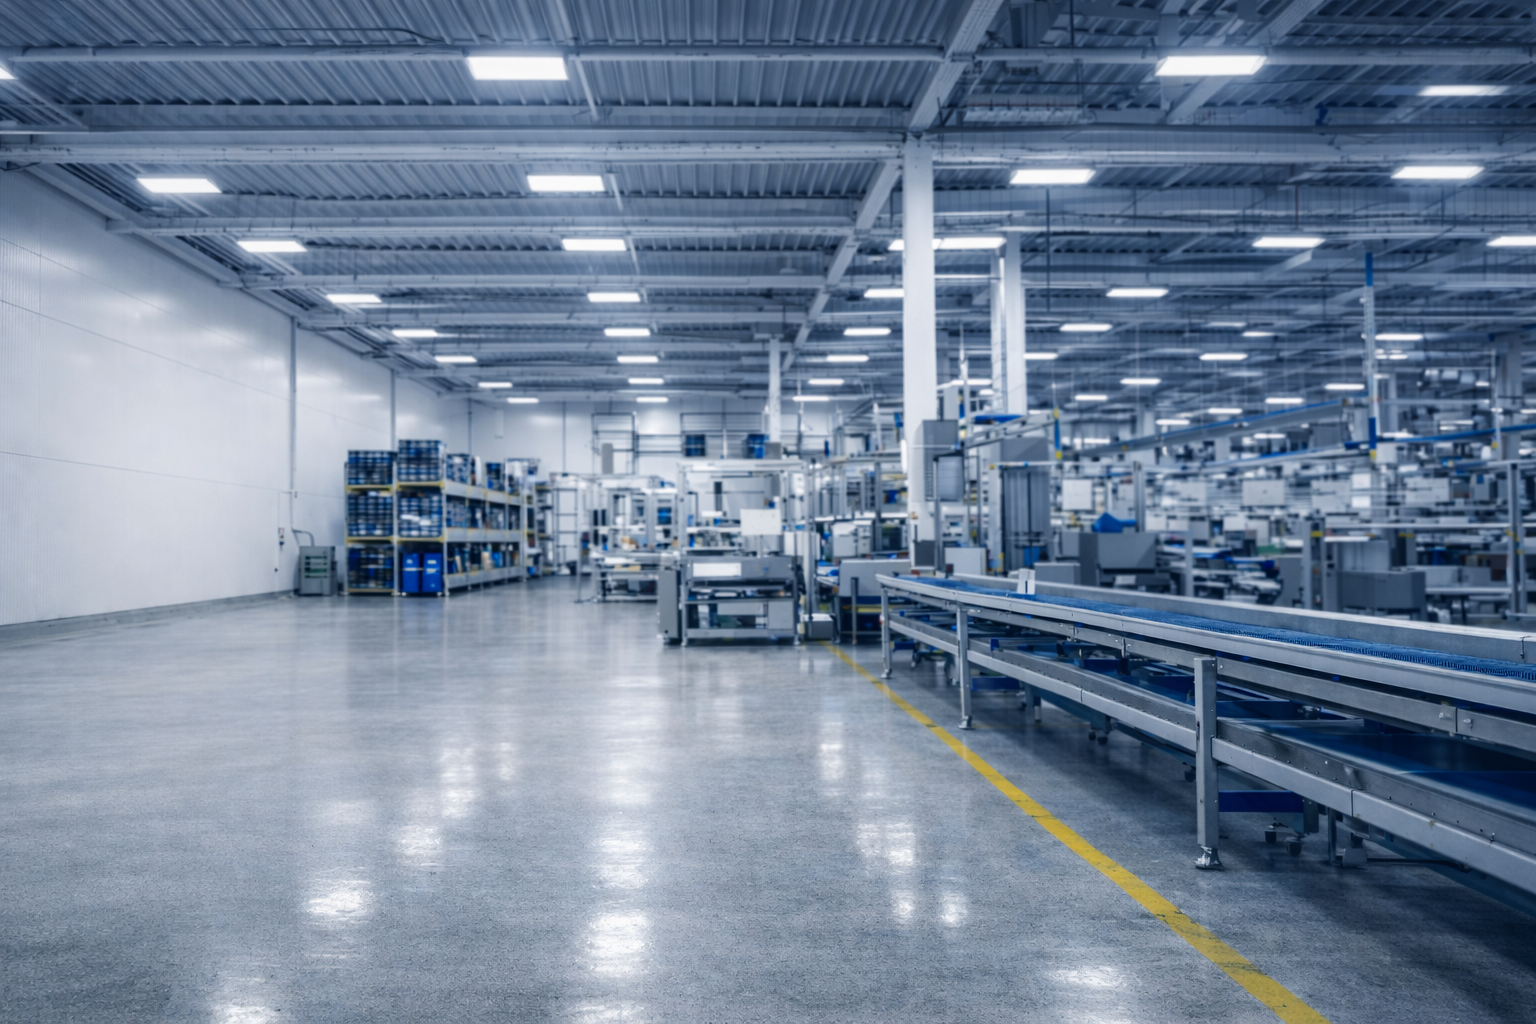
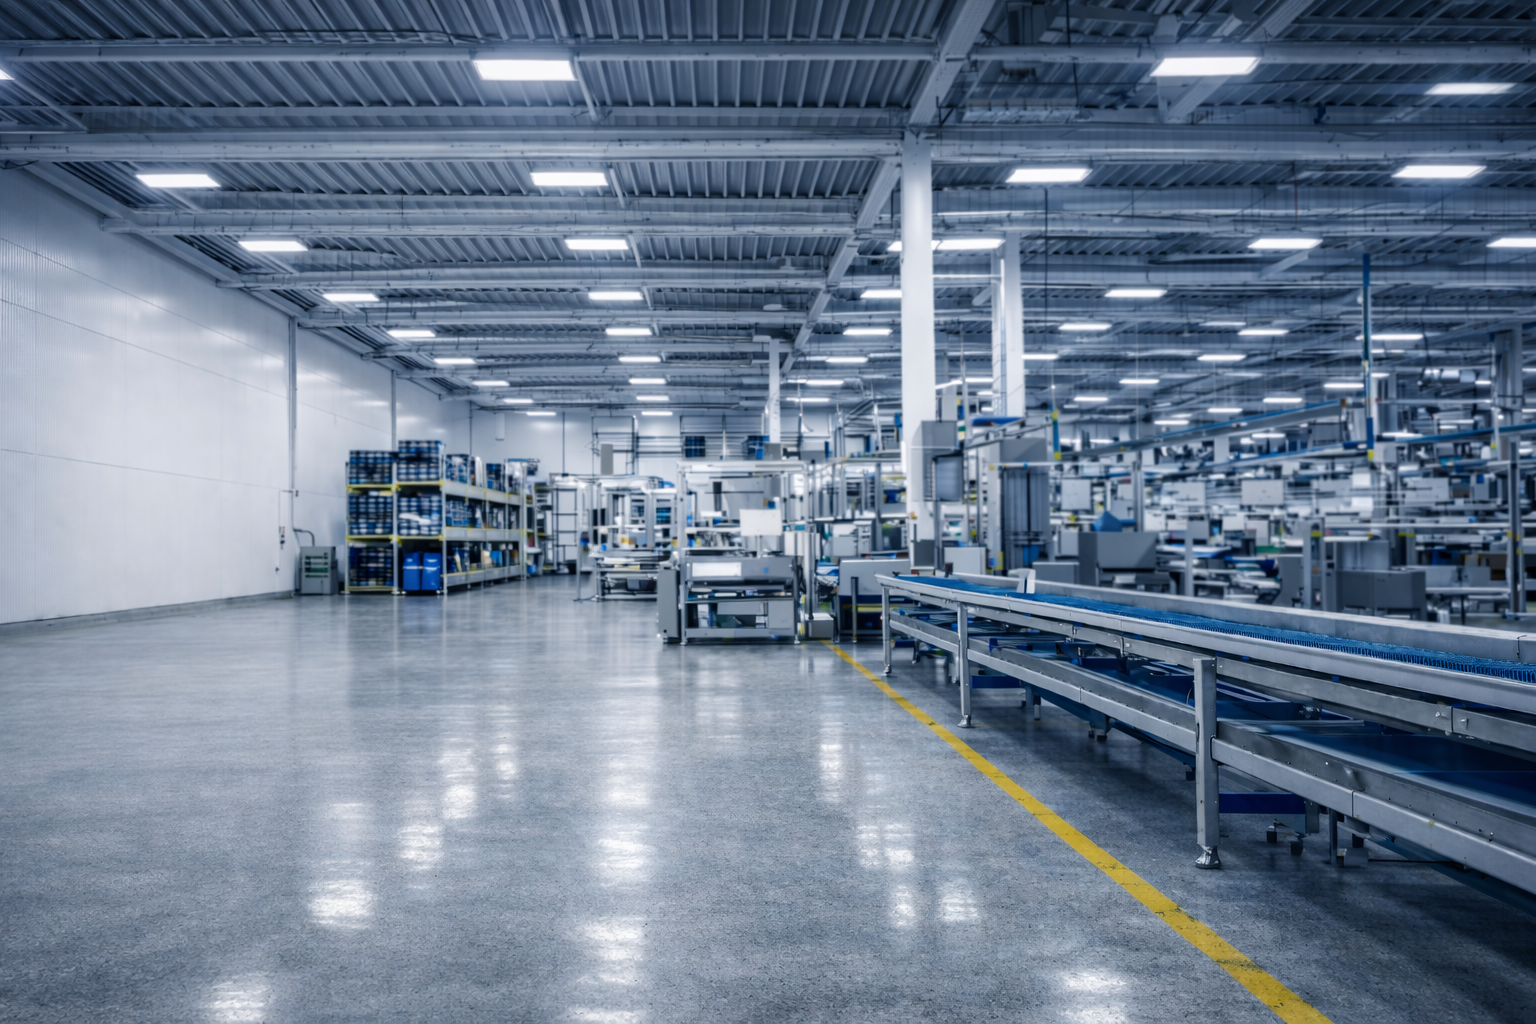
fix(hero): panel glassmorphism para legibilidad del texto
- Panel backdrop-blur-md bg-background/60 con borde sutil
- Imagen con brightness-[0.85] para reducir brillo
- Overlay izquierda más fuerte (97%->0%)
- Overlay oscuro global aumentado (20%)
- Tipografía ajustada para el panel
- Look ejecutivo/enterprise

diff --git a/components/sections/hero.tsx b/components/sections/hero.tsx
@@ -17,24 +17,25 @@ export function Hero() {
           fill
           priority
           quality={85}
-          className="object-cover object-center lg:object-right"
+          className="object-cover object-center lg:object-right brightness-[0.85]"
           sizes="100vw"
         />
       </div>
 
-      {/* Overlay oscuro sutil global para evitar que se "queme" la imagen */}
-      <div className="absolute inset-0 bg-foreground/10 -z-10" />
+      {/* Overlay oscuro global para mejor contraste */}
+      <div className="absolute inset-0 bg-foreground/20 -z-10" />
 
-      {/* Overlay gradiente izquierda para legibilidad del texto */}
+      {/* Overlay gradiente izquierda más fuerte para legibilidad del texto */}
       <div 
         className="absolute inset-0 -z-10"
         style={{
           background: `linear-gradient(
             to right,
-            hsl(var(--background) / 0.92) 0%,
-            hsl(var(--background) / 0.80) 30%,
-            hsl(var(--background) / 0.50) 55%,
-            hsl(var(--background) / 0.20) 75%,
+            hsl(var(--background) / 0.97) 0%,
+            hsl(var(--background) / 0.92) 25%,
+            hsl(var(--background) / 0.75) 45%,
+            hsl(var(--background) / 0.40) 65%,
+            hsl(var(--background) / 0.15) 80%,
             transparent 100%
           )`
         }}
@@ -42,7 +43,7 @@ export function Hero() {
 
       {/* Overlay gradiente inferior para transición suave */}
       <div 
-        className="absolute inset-x-0 bottom-0 h-40 -z-10"
+        className="absolute inset-x-0 bottom-0 h-48 -z-10"
         style={{
           background: `linear-gradient(to top, hsl(var(--background)) 0%, transparent 100%)`
         }}
@@ -50,51 +51,53 @@ export function Hero() {
 
       <div className="container mx-auto px-4 py-16 sm:py-20 lg:py-28">
         <div className="max-w-7xl mx-auto">
-          {/* Contenido principal - lado izquierdo */}
-          <div className="max-w-2xl space-y-8">
-            <div className="flex justify-start mb-6 animate-fade-up">
-              <div className="inline-flex items-center gap-2 px-5 py-3 rounded-full bg-background/80 backdrop-blur-sm border border-border text-sm font-semibold text-primary shadow-lg">
-                <span className="w-2 h-2 rounded-full bg-primary animate-pulse" />
-                <span>Software integrado de manufactura ERP/MRP</span>
+          {/* Contenido principal - lado izquierdo con panel glassmorphism */}
+          <div className="max-w-2xl">
+            <div className="backdrop-blur-md bg-background/60 rounded-3xl p-8 sm:p-10 lg:p-12 border border-border/50 shadow-2xl shadow-foreground/5 space-y-6 sm:space-y-8">
+              <div className="flex justify-start animate-fade-up">
+                <div className="inline-flex items-center gap-2 px-4 py-2.5 rounded-full bg-primary/10 border border-primary/20 text-sm font-semibold text-primary">
+                  <span className="w-2 h-2 rounded-full bg-primary animate-pulse" />
+                  <span>Software integrado de manufactura ERP/MRP</span>
+                </div>
               </div>
-            </div>
 
-            <h1 className="text-4xl sm:text-5xl lg:text-6xl xl:text-7xl font-bold text-balance animate-fade-up animation-delay-100 leading-[1.1] drop-shadow-sm">
-              Planeación y control de producción{" "}
-              <span className="text-primary">
-                en tiempo real
-              </span>
-            </h1>
+              <h1 className="text-3xl sm:text-4xl lg:text-5xl xl:text-6xl font-bold text-balance animate-fade-up animation-delay-100 leading-[1.15] text-foreground">
+                Planeación y control de producción{" "}
+                <span className="text-primary">
+                  en tiempo real
+                </span>
+              </h1>
 
-            <p className="text-lg sm:text-xl lg:text-2xl text-muted-foreground text-pretty leading-relaxed animate-fade-up animation-delay-200 max-w-xl">
-              CRM, trazabilidad, calidad e ingeniería integrados. Arquitectura basada en Microsoft para visibilidad
-              completa de tu operación.
-            </p>
+              <p className="text-base sm:text-lg lg:text-xl text-muted-foreground text-pretty leading-relaxed animate-fade-up animation-delay-200">
+                CRM, trazabilidad, calidad e ingeniería integrados. Arquitectura basada en Microsoft para visibilidad
+                completa de tu operación.
+              </p>
 
-            <div className="flex flex-col sm:flex-row gap-4 pt-4 animate-fade-up animation-delay-300">
-              <Button asChild size="lg" className="text-base h-14 px-8 glow-primary font-semibold">
-                <Link href="/contacto" className="flex items-center gap-2" aria-label="Solicitar demostración gratuita del producto">
-                  <span>Solicitar demo gratuita</span>
-                  <ArrowRight className="w-5 h-5" aria-hidden="true" />
-                </Link>
-              </Button>
-              <Button
-                asChild
-                variant="outline"
-                size="lg"
-                className="text-base h-14 px-8 font-semibold text-white bg-[linear-gradient(120deg,#2fe075,#22c35e)] border-[#1fa755] shadow-lg shadow-[#25D366]/35 hover:shadow-[#25D366]/50 hover:-translate-y-[1px] transition-all"
-              >
-                <a 
-                  href={whatsappLink} 
-                  target="_blank" 
-                  rel="noopener noreferrer" 
-                  className="flex items-center gap-2"
-                  aria-label="Iniciar conversación por WhatsApp"
+              <div className="flex flex-col sm:flex-row gap-4 pt-2 animate-fade-up animation-delay-300">
+                <Button asChild size="lg" className="text-base h-13 sm:h-14 px-6 sm:px-8 glow-primary font-semibold">
+                  <Link href="/contacto" className="flex items-center gap-2" aria-label="Solicitar demostración gratuita del producto">
+                    <span>Solicitar demo gratuita</span>
+                    <ArrowRight className="w-5 h-5" aria-hidden="true" />
+                  </Link>
+                </Button>
+                <Button
+                  asChild
+                  variant="outline"
+                  size="lg"
+                  className="text-base h-13 sm:h-14 px-6 sm:px-8 font-semibold text-white bg-[linear-gradient(120deg,#2fe075,#22c35e)] border-[#1fa755] shadow-lg shadow-[#25D366]/35 hover:shadow-[#25D366]/50 hover:-translate-y-[1px] transition-all"
                 >
-                  <MessageCircle className="w-6 h-6" aria-hidden="true" />
-                  <span>Hablar por WhatsApp</span>
-                </a>
-              </Button>
+                  <a 
+                    href={whatsappLink} 
+                    target="_blank" 
+                    rel="noopener noreferrer" 
+                    className="flex items-center gap-2"
+                    aria-label="Iniciar conversación por WhatsApp"
+                  >
+                    <MessageCircle className="w-5 h-5 sm:w-6 sm:h-6" aria-hidden="true" />
+                    <span>Hablar por WhatsApp</span>
+                  </a>
+                </Button>
+              </div>
             </div>
           </div>
         </div>
